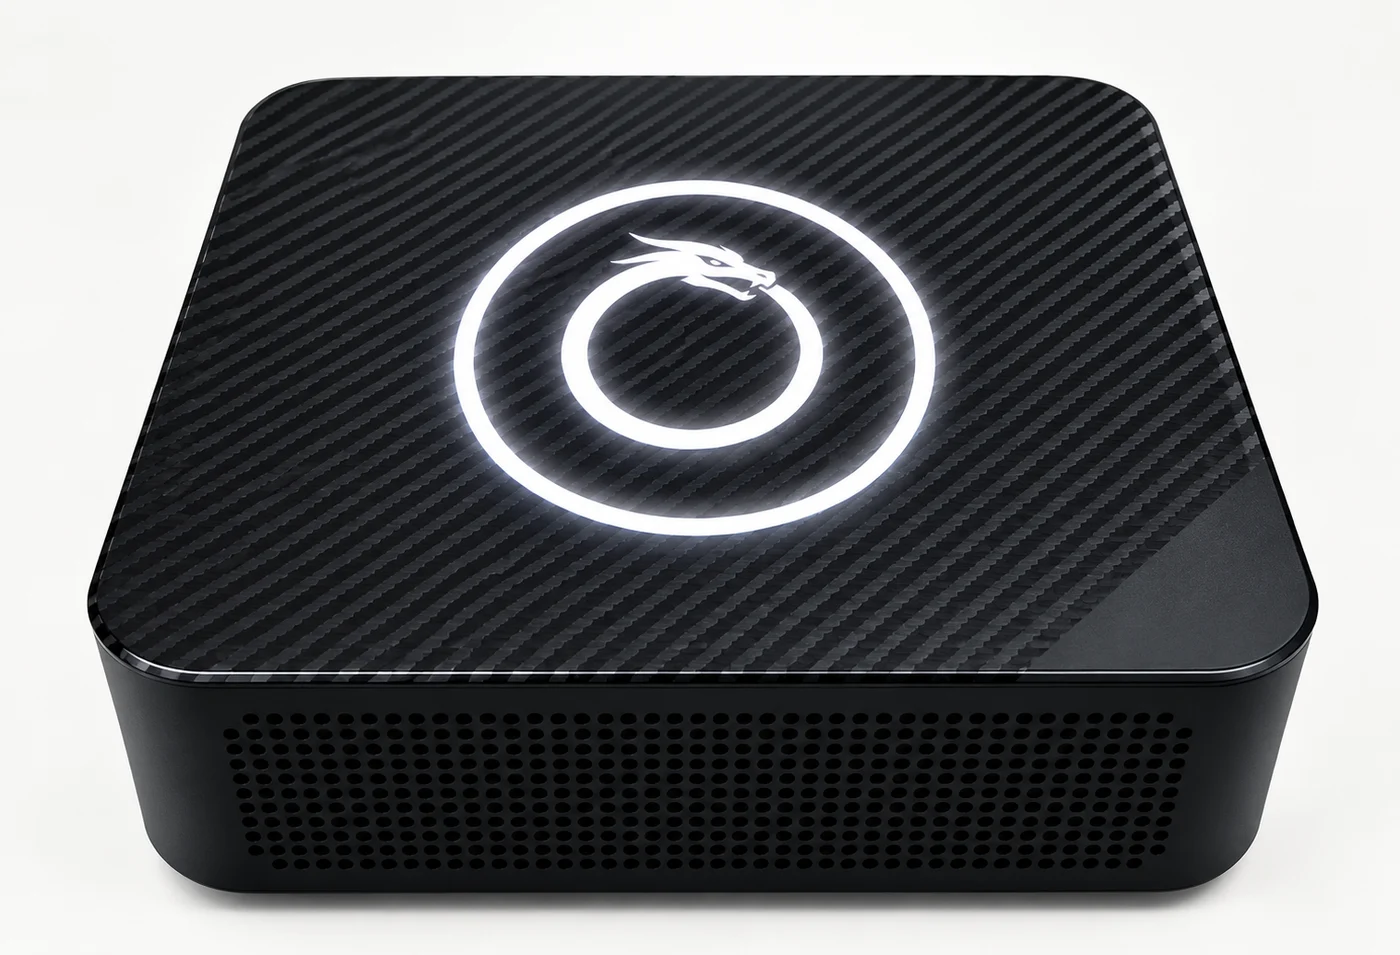
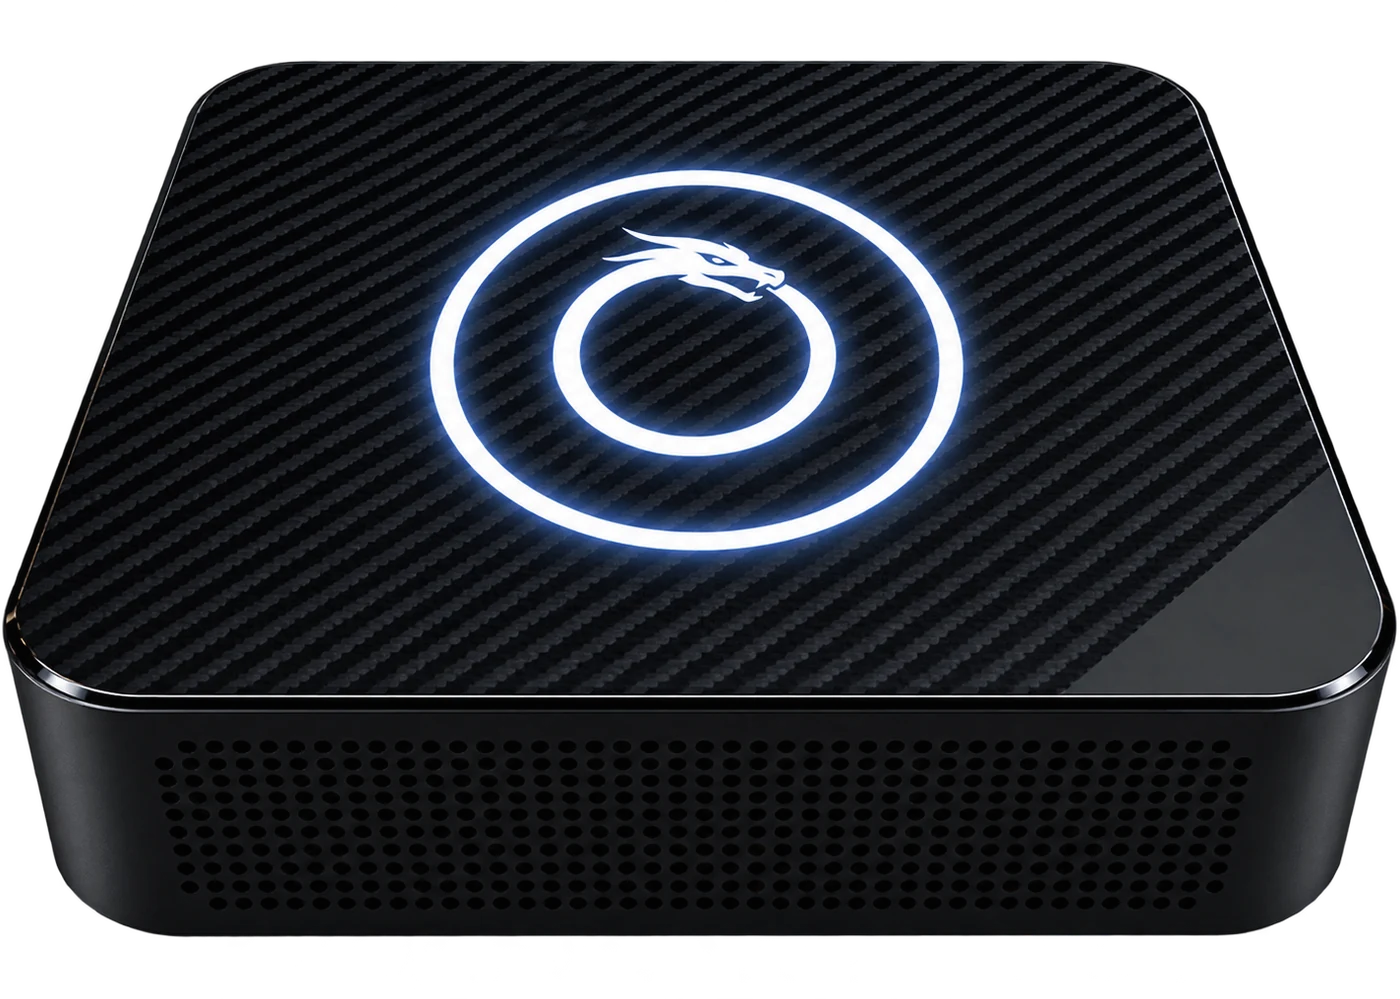
eyro.io: cut-out Eyro Mini photo on the black page
The hero drops the white card for the transparent product photo, lifted off
the black page by a soft glow in the ring's colour. The link preview is the
same device on black.

diff --git a/src/components/preorder/preorder.css b/src/components/preorder/preorder.css
@@ -92,9 +92,11 @@
 .po-price-was::after{transform:rotate(-22deg);}
 .po-price-off{padding:5px 10px;border-radius:999px;background:#fff;color:#000;font-size:12px;font-weight:800;letter-spacing:.08em;text-transform:uppercase;}
 .po-cta{display:flex;flex-wrap:wrap;gap:12px;}
-/* The product photo is shot on white, so it sits on its own white card. */
-.po-shot{overflow:hidden;padding:6%;border-radius:16px;background:#f5f5f3;box-shadow:0 24px 90px rgba(0,0,0,.72),0 0 0 1px var(--line-bright);}
-.po-shot img{display:block;width:100%;height:auto;}
+/* The product photo is a cut-out: a black device on the black page, lifted
+   by a soft cool glow (the colour of its ring) so its outline reads. */
+.po-shot{position:relative;padding:4%;}
+.po-shot::before{content:'';position:absolute;inset:8% 4% 0;z-index:0;border-radius:50%;background:radial-gradient(closest-side,rgba(90,120,255,.28),rgba(90,120,255,.08) 60%,transparent);filter:blur(24px);}
+.po-shot img{position:relative;z-index:1;display:block;width:100%;height:auto;filter:drop-shadow(0 30px 40px rgba(0,0,0,.9));}
 
 .po-list{display:grid;grid-template-columns:1fr 1fr;gap:20px 40px;align-items:center;padding:clamp(22px,3vw,32px);border:1px solid var(--line-bright);border-radius:16px;background:var(--panel);}
 .po-list h2{margin-bottom:10px;max-width:none;font-size:clamp(22px,2.6vw,28px);letter-spacing:-.03em;line-height:1.15;}
